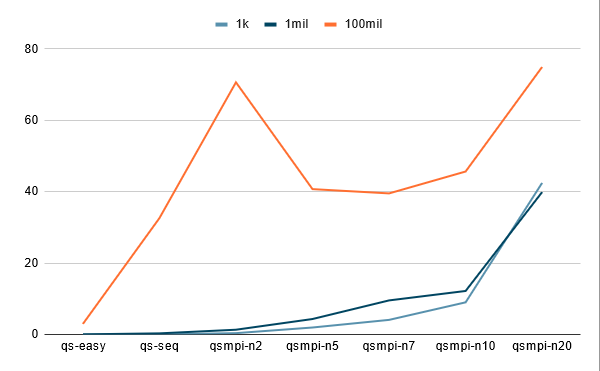
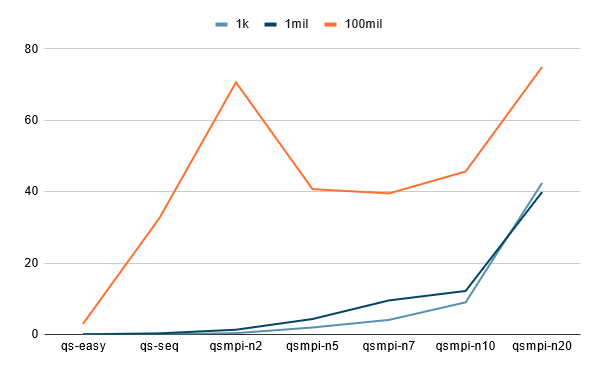
css and pdf ultra deluxe max

diff --git a/README.md b/README.md
@@ -20,7 +20,9 @@ println("The element number $k of the sorted array is: $(sorted_A[k])")
 
 This algorithm revolves around creating a random `pivot` point somewhere inside the array and using it to seperate the array into two parts. The first part of the array contains only elements that are smaller than the pivot point *symblized with 'o'* and the second part contains elements equal or bigger than the pivot point *symblized with '■'*. 
 
-<img src="media/quick-select.png" alt="two parts" width="400" height="300">
+<div style="text-align: center;">
+      <img src="media/quick-select.png" alt="two parts" width="400" height="300">
+</div>
 
 After having two pointers traverse the array, one from the start and one from the end, whenever they each come in contact with an element that should be on the opposite side the swap values and continue doing that until they have met each other. 
 <pre>
@@ -174,7 +176,9 @@ Execution times mean, Array: 100mil, Computation: Locally
 |Mean score|Mean score|Mean score|Mean score|Mean score|Mean score|Mean score|
 |2.9006|32.5728|70.6352|40.7172|39.5186|45.6496|74.9598|
 
-![excel-graph](media/qs-graph.png)
+<div style="text-align: center;">
+      <img src="media/qs-graph.png" alt="excel-graph">
+</div>
 
 The results show than in all scenarios using MPI produces slower results. The higher the number of processes the slower the program is. However one anomaly sighted was the drop in time in the larger file variant upon which the program was tasked to run on. With 2 processes the time peaked then gradually reduced and only after assigning 20 processes did it rise back up to the same level as n=2.  
 
